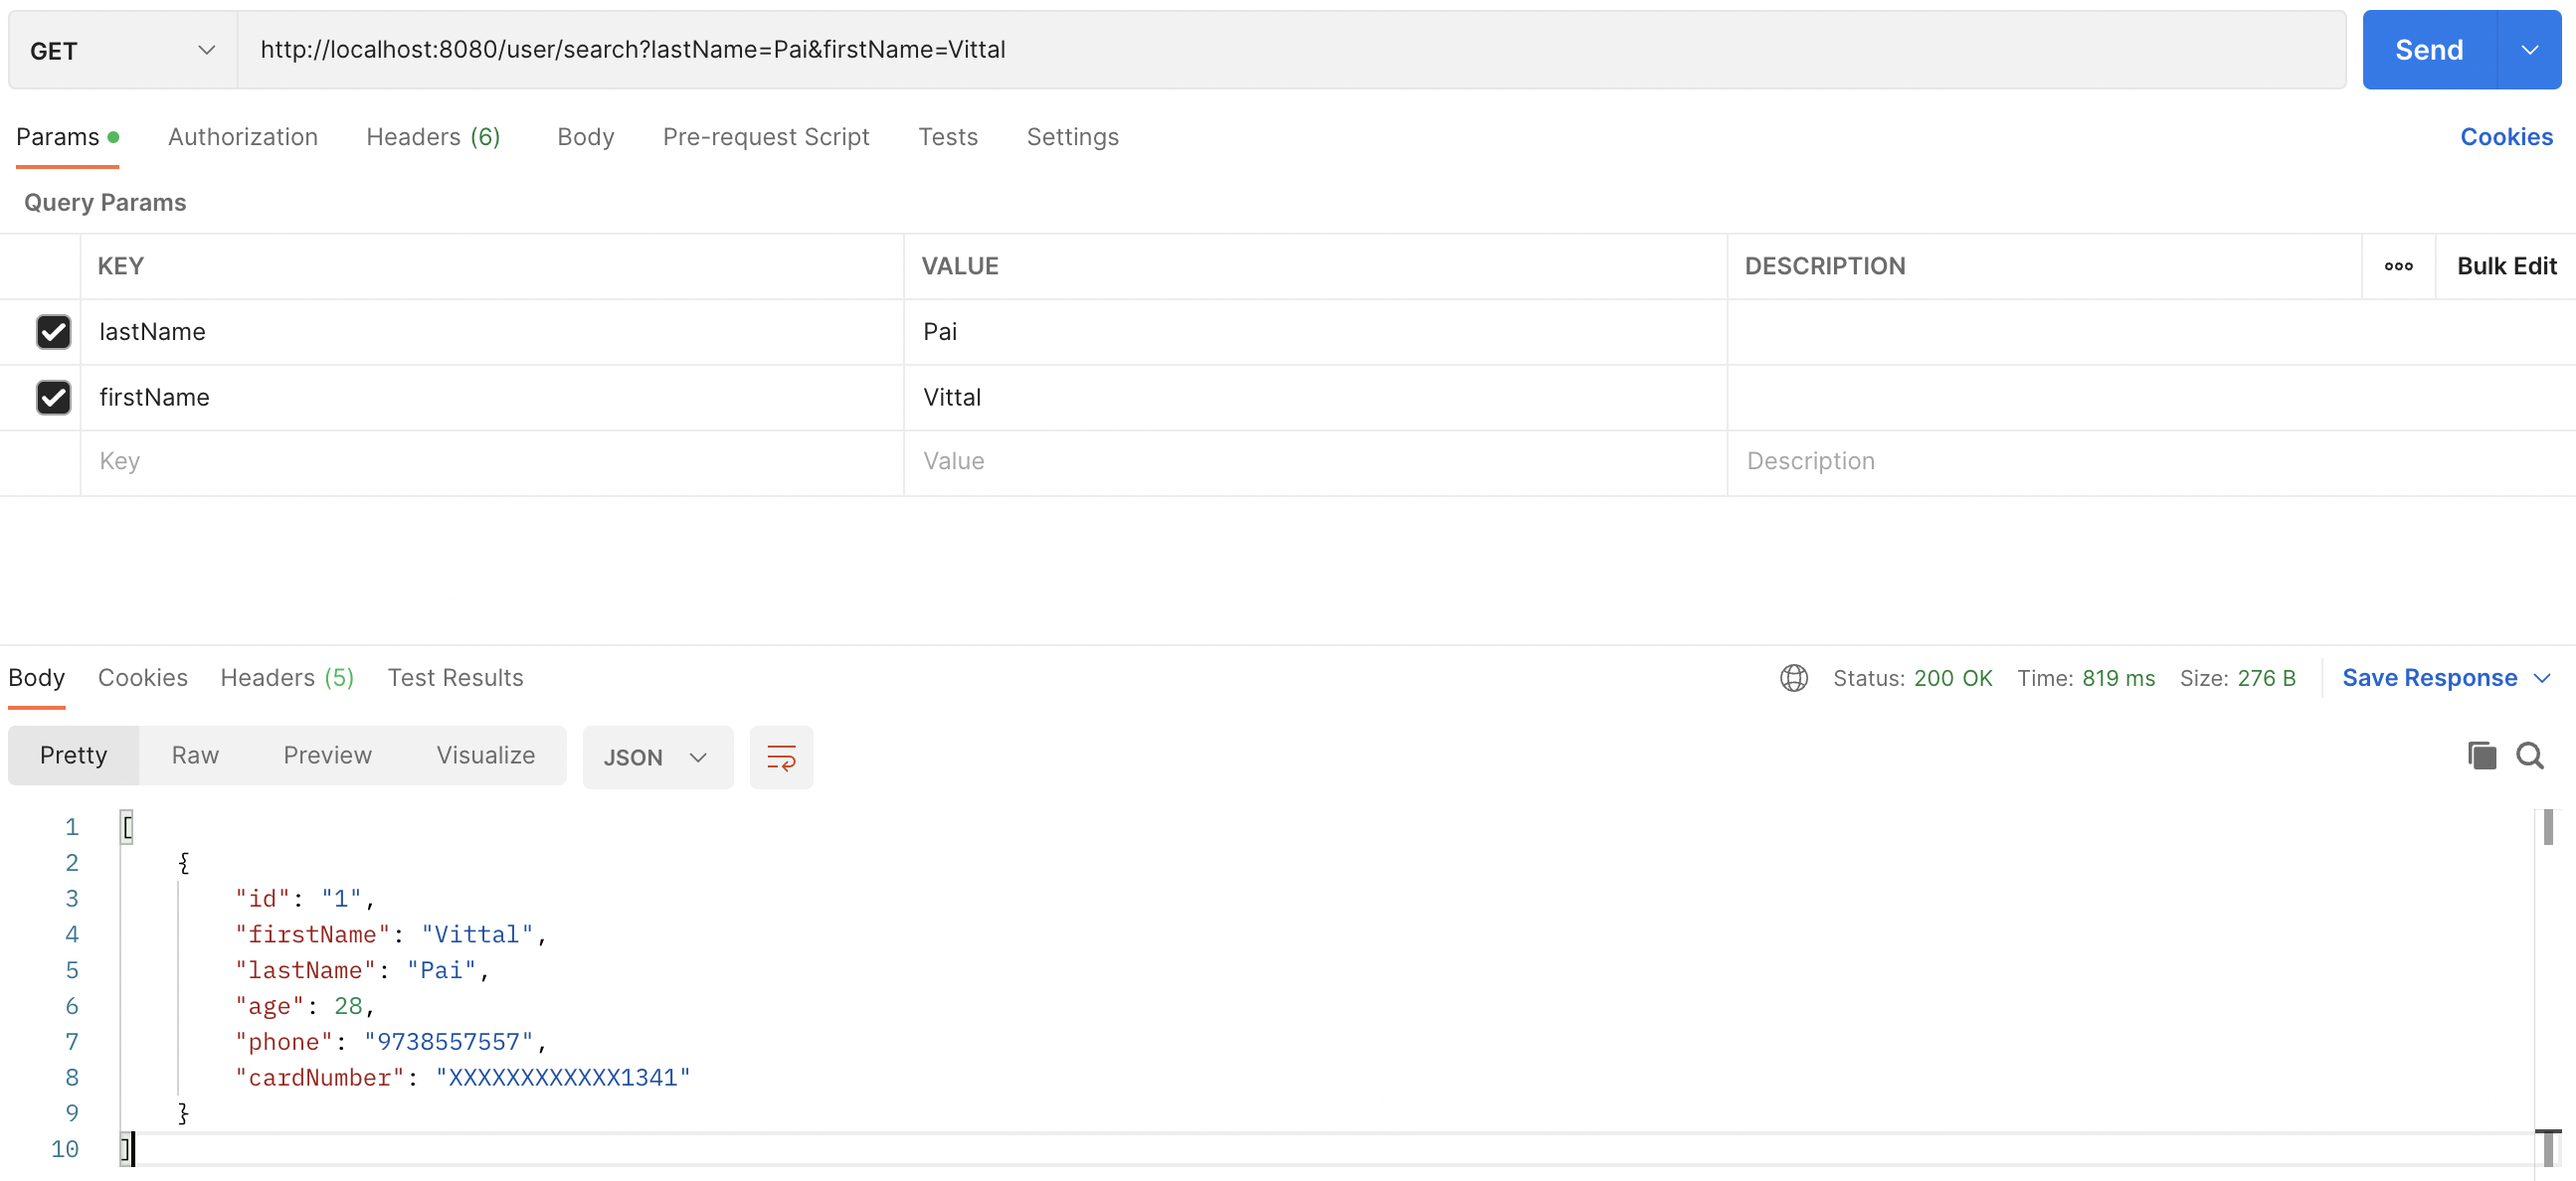
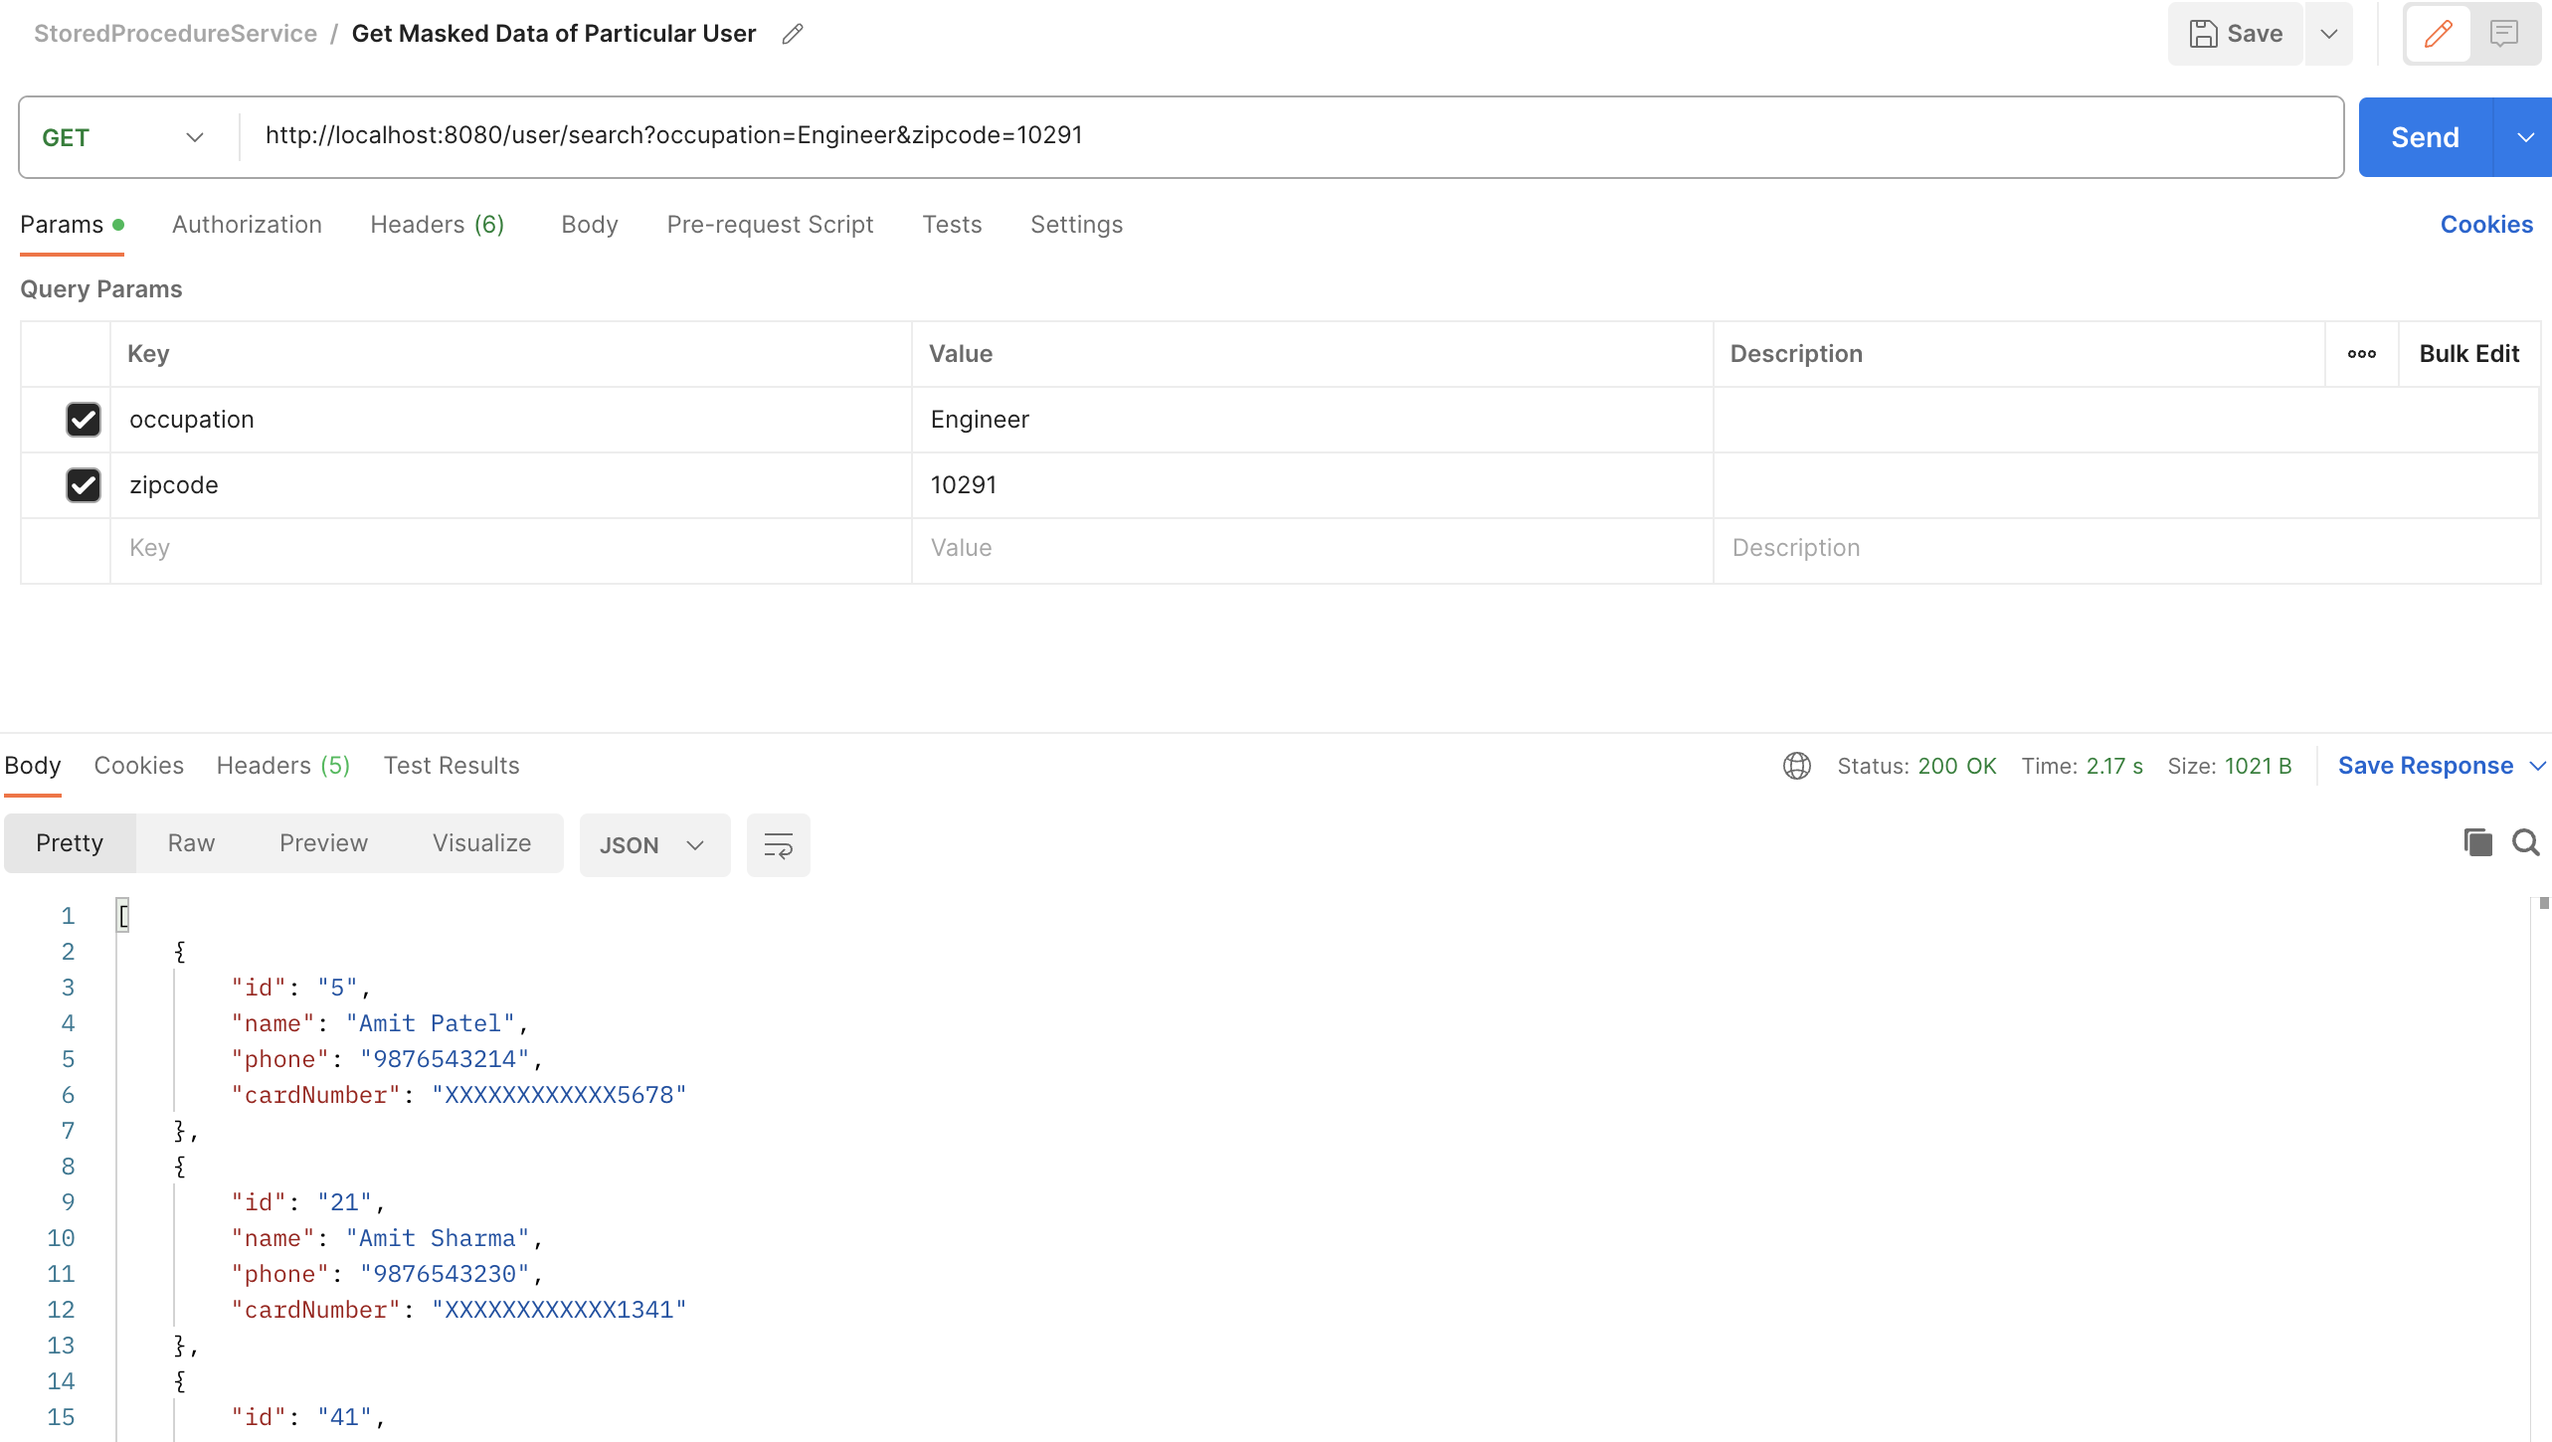
Update readme

diff --git a/README.md b/README.md
@@ -3,26 +3,27 @@ Spring Boot Java application that demonstrates how PL/SQL stored procedures are 
 
 Here is a sample Stored Procedure implementation in Relational Database.
 ```
-create or replace PROCEDURE CARDMASK 
-(
-  FIRSTNAME IN  VARCHAR2,
-  LASTNAME  IN  VARCHAR2,
-  RES    OUT SYS_REFCURSOR
-) AS 
-    stmt VARCHAR2(200);
+CREATE or replace PROCEDURE TOPCUSTOMERS (
+  ZIPCODE IN  VARCHAR2,
+  OCCUPATION IN  VARCHAR2,
+  RES    OUT SYS_REFCURSOR )
+AS
+ stmt VARCHAR2(2000);
 BEGIN
-    stmt := 'SELECT ID,FIRSTNAME, LASTNAME, AGE, PHONE, LPAD(SUBSTR (CARDNUMBER, 13, 4), 16, ''X'') AS CARDNUMBER FROM USERS';
-    IF FirstName IS NOT NULL AND LastName IS NOT NULL THEN 
-       stmt := stmt || ' WHERE ' || 'FirstName=' || CHR (39) || FirstName || CHR (39) || ' AND LastName=' || CHR (39) || LastName || CHR (39) ;
-    END IF; 
-    
-    OPEN RES FOR stmt;
-    
-    EXCEPTION
+  stmt := 'SELECT C.ID, C.NAME, C.PHONENUMBER, LPAD(SUBSTR (T.CARDNUMBER, 13, 4), 16, ''X'') AS MASKEDCARDNUMBER FROM CUSTOMER C INNER JOIN CUSTOMERTRANSACTIONSUMMARY T ON C.ID = T.CustomerID';
+              
+   IF ZIPCODE IS NOT NULL AND OCCUPATION IS NOT NULL THEN 
+       stmt := stmt || ' WHERE ' || 'C.ZipCode=' || CHR (39) || ZIPCODE || CHR (39) || ' AND C.Occupation=' || CHR (39) || OCCUPATION || CHR (39) ;
+  END IF;
+  stmt := stmt || ' ORDER BY C.NAME FETCH FIRST 10 ROWS ONLY';  
+
+  OPEN RES FOR stmt;
+  
+  EXCEPTION
         WHEN OTHERS THEN
             dbms_output.put_line(SQLERRM);
 
-END CARDMASK;
+END TOPCUSTOMERS;
 ```
 The above procedure uses the LPAD function to take a string, which is a credit card number, and from which we extract a substring (SUBSTR) of the last 4 characters. All the other characters in the string are then “padded” by a single character string of ‘X’.
 
@@ -31,25 +32,25 @@ Here is the equivalent implementation in MongoDB, we can achieve the same masked
 ```
 var pipeline = [
     {
-        "$match" : {
-            "FirstName": "Vittal",
-            "LastName": "Pai"
+        '$match': {
+            'Occupation': 'Business', 
+            'ZipCode': '12031'
         }
-    },
+    }, 
     {
-        "$project" : {
-            "_id" : 1,
-            "firstName" : 1,
-            "lastName" : 1,
-            "age" : 1,
-            "phone" : 1,
-            "cardNumber" : {
-                "$concat": [ 'XXXXXXXXXXXX', {
-                    "$substrCP" : ["$cardNumber", 12, 4]
-                }]
-            }
-            
+        '$project': {
+            'Name': 1, 
+            'PhoneNumber': 1, 
+            'CardNumber': { '$concat': [ '************', { '$substr': [ '$CardNumber', 12, 4 ] } ] }
         }
+    }, 
+    {
+        '$sort': {
+            'Name': 1
+        }
+    }, 
+    {
+        '$limit': 10
     }
 ]
 ```
@@ -62,6 +63,8 @@ var pipeline = [
 ## Usage
 
 * Clone the repository 
+* Import the Schema & Stored procedure(`schema/oracle.sql`) into Oracle instance.
+* Import the JSON documents(`schema/mongodb.json`) into a MongoDB instance.
 * Update the MongoDB/Oracle Server credentials in `src/main/resources/application.properties` file
     ```
     # MongoDB
@@ -82,7 +85,7 @@ var pipeline = [
 * Invoke the following GET endpoints using REST Clients like POSTMAN, etc to fetch the data.
     ```
     http://localhost:8080/user/all
-    http://localhost:8080/user/search?lastName=Pai&firstName=Vittal
+    http://localhost:8080/user/search?occupation=Engineer&zipcode=10291
     ```
 
     ![REST CALL](/images/db-call.png)
